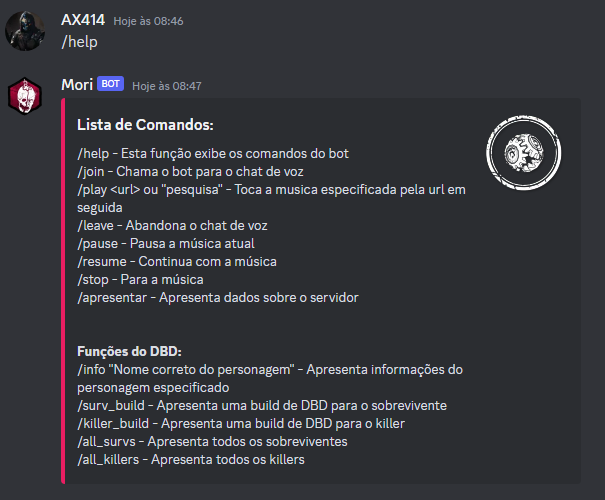
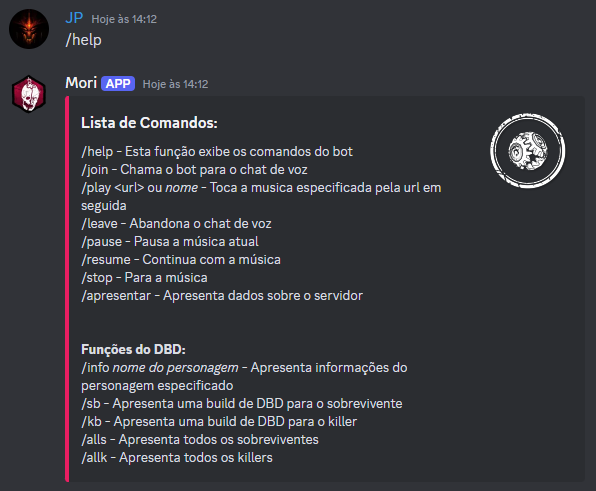
Fix: Atualizando o README.

Changed region(s): [[0.0, 0.1527, 0.7852, 0.9776], [0.7852, 0.2138, 0.9664, 0.3971], [0.0, 0.0, 0.302, 0.1222]]

diff --git a/README.md b/README.md
@@ -1,22 +1,40 @@
 # Mori - Um bot do Discord para randomizar perks de Dead by Daylight:
 
-<p align="center">
-<img src="https://static.wikia.nocookie.net/deadbydaylight_gamepedia_en/images/8/86/FulliconFavors_ebonyMementoMori.png/revision/latest?cb=20200821203851"/>
-</p>
+<img src="https://static.wikia.nocookie.net/deadbydaylight_gamepedia_en/images/8/86/FulliconFavors_ebonyMementoMori.png/revision/latest?cb=20200821203851">
 
 Este é um bot de discord que desenvolvi utilizando python, ele oferece funções relacionadas ao jogo "[Dead By Daylight](https://deadbydaylight.com/)", suas funções podem ser vistas utilizando o comando "/help".
-<p align="center">
-<img src="https://github.com/AX414/mori-discord-bot/blob/main/images/img1.png?raw=true"/>
-</p>
 
-Para executar ele, é necessário instalar as bibliotecas utilizadas pelo python criar um bot no developer portal seguindo conforme o passo 1 e 2 desta apresentação [aqui](https://ax414.github.io/pokedex-discord-bot) e utilizar o token fornecido pelo portal para utilizá-lo no arquivo ".env". Depois disso basta utilizar o link de convite para convidá-lo para seu servidor e executar o script "main.py".
+<img src="https://github.com/AX414/blob/main/images/img1.png?raw=true">
+
+Para executar ele, é necessário instalar as bibliotecas a com: pip install discord.py, requests, asyncio, yt-dlp, deep-translator, python-dotenv, PyNaCl, ffmpeg, fuzzywuzzy, pillow, python-Levenshtein.
 
 # Screenshots:
-
-<p align="center">
+<br>
 <table>
-  <tr><th>/all_survs e /all_killer</th>           <th>/surv_build e /killer_build</th></tr>
-  <tr><td><img src="https://github.com/AX414/mori-discord-bot/blob/main/images/img2.png?raw=true"/></td><td><img src="https://github.com/AX414/mori-discord-bot/blob/main/images/img4.png?raw=true"/></td></tr>
-  <tr><td><img src="https://github.com/AX414/mori-discord-bot/blob/main/images/img3.png?raw=true"/></td><td><img src="https://github.com/AX414/mori-discord-bot/blob/main/images/img5.png?raw=true"/></td></tr>
+<tbody>
+<tr>
+<th>/sb</th>
+<th>/kb</th>
+</tr>
+<tr>
+<td><img src="https://github.com/AX414/blob/main/images/img5.png?raw=true"></td>
+<td><img src="https://github.com/AX414/blob/main/images/img6.png?raw=true"></td>
+</tr>
+<tr>
+<th>/alls</th>
+<th>/allk</th>
+</tr>
+<tr>
+<td><img src="https://github.com/AX414/blob/main/images/img3.png?raw=true"></td>
+<td><img src="https://github.com/AX414/blob/main/images/img2.png?raw=true"></td>
+</tr>
+<tr>
+<th>/info</th>
+<th>/play</th>
+</tr>
+<tr>
+<td><img src="https://github.com/AX414/blob/main/images/img4.png?raw=true"></td>
+<td><img src="https://github.com/AX414/blob/main/images/img7.png?raw=true"></td>
+</tr>
+</tbody>
 </table>
-</p>
